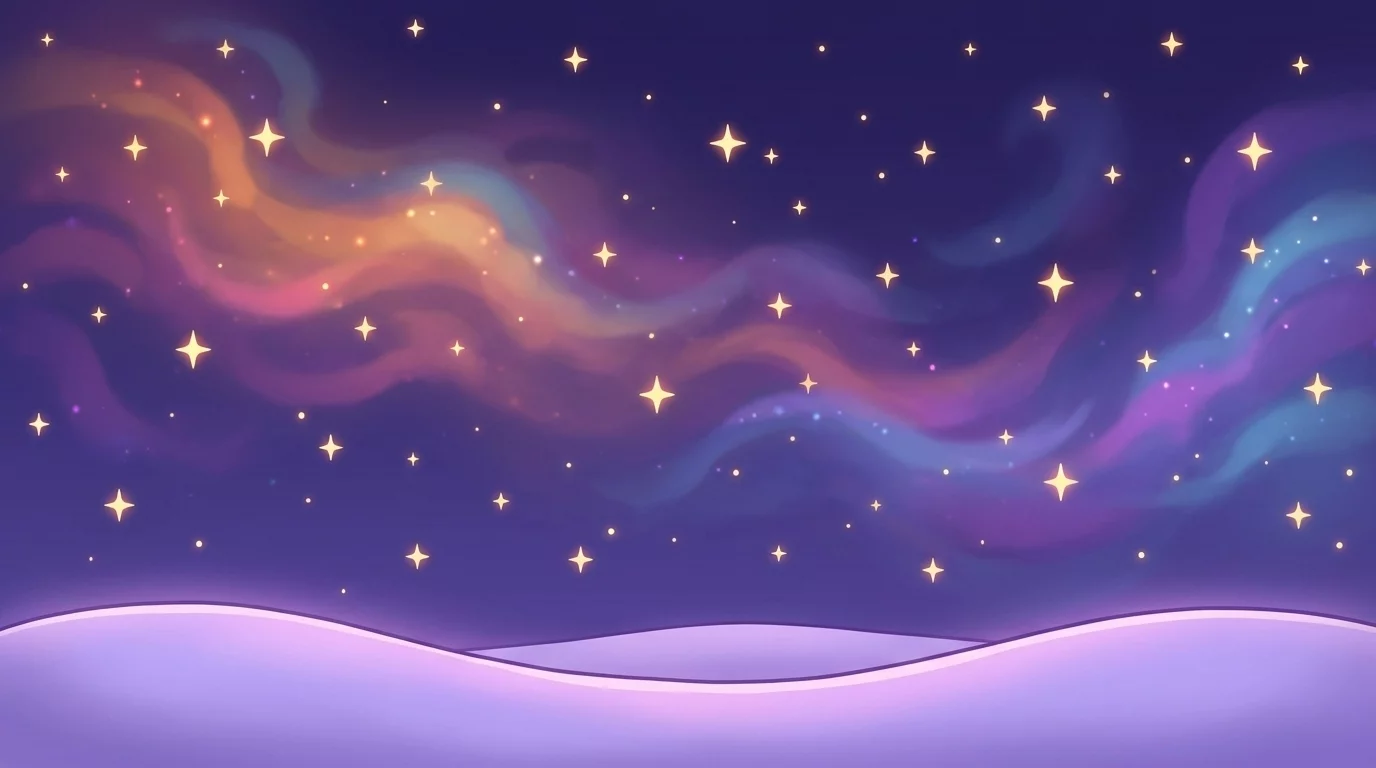
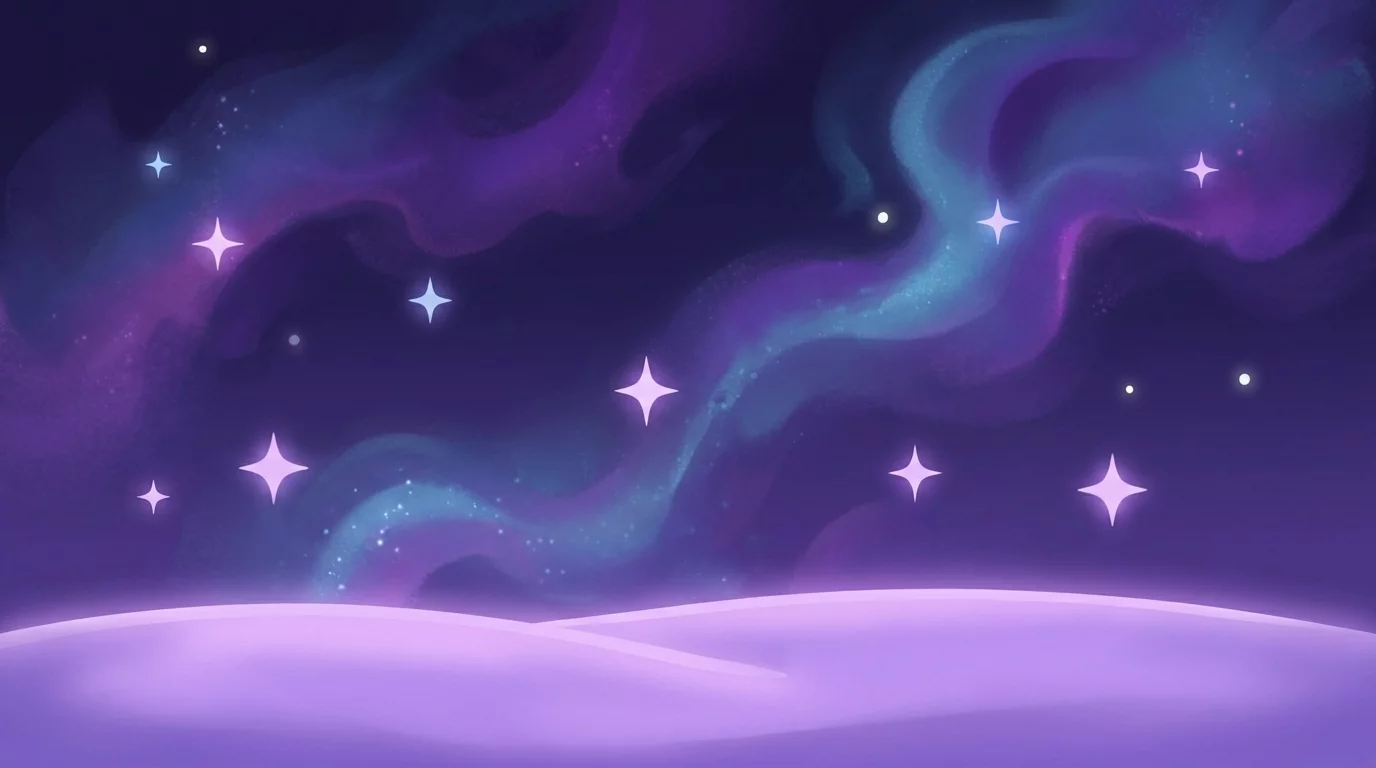
Book 2: art (generated; sources in asset-sources/duel2)

diff --git a/src/duel2/components/screens/Doors.tsx b/src/duel2/components/screens/Doors.tsx
@@ -10,16 +10,23 @@ import { Stage, type Phase } from './Stage'
 export const DOOR_GLYPH_PX = 110
 export const KEY_X = [520, 800, 1080]
 
+/** Where the round handle's disc sits in the key sprite (measured): centre and radius as fractions of the sprite width/height. */
+export const KEY_BOW = { cx: 0.5, cy: 0.345, r: 0.369 }
+const DISC_R = 80
+const KEY_W = DISC_R / KEY_BOW.r
+const KEY_H = KEY_W * (600 / 428)
+
 function KeyShape(p: { x: number; y: number; picture: string; state: 'idle' | 'reveal' | 'wrong' | 'off'; onPick: () => void; correct: boolean }) {
   const ring = p.state === 'reveal' ? '#ffd34d' : p.state === 'wrong' ? '#ff4d6a' : '#e7b860'
+  const pic = DISC_R * 1.5
   return (
     <g data-key className="d2-key" opacity={p.state === 'off' ? 0.4 : 1}>
       {IMAGES['s-key']
-        ? <image href={IMAGES['s-key']} x={p.x - 95} y={p.y - 100} width={190} height={250} />
-        : <g stroke={ring} strokeWidth={12} fill="none"><circle cx={p.x} cy={p.y} r={92} /><path d={`M${p.x} ${p.y + 92} v110 m0 -40 h34 m-34 30 h24`} /></g>}
-      <circle cx={p.x} cy={p.y} r={80} fill="#2a1660" stroke={ring} strokeWidth={p.state === 'idle' ? 0 : 8} />
-      {IMAGES[p.picture] && <image href={IMAGES[p.picture]} x={p.x - 66} y={p.y - 66} width={132} height={132} />}
-      <rect data-pick x={p.x - 105} y={p.y - 105} width={210} height={330} fill="transparent" {...(p.correct ? { 'data-correct': '1' } : {})}
+        ? <image href={IMAGES['s-key']} x={p.x - KEY_W * KEY_BOW.cx} y={p.y - KEY_H * KEY_BOW.cy} width={KEY_W} height={KEY_H} />
+        : <g stroke={ring} strokeWidth={12} fill="none"><circle cx={p.x} cy={p.y} r={DISC_R + 12} /><path d={`M${p.x} ${p.y + DISC_R + 12} v110 m0 -40 h34 m-34 30 h24`} /></g>}
+      <circle data-key-disc cx={p.x} cy={p.y} r={DISC_R} fill={IMAGES['s-key'] ? 'none' : '#2a1660'} stroke={ring} strokeWidth={p.state === 'idle' ? 0 : 10} />
+      {IMAGES[p.picture] && <image data-key-picture href={IMAGES[p.picture]} x={p.x - pic / 2} y={p.y - pic / 2} width={pic} height={pic} />}
+      <rect data-pick x={p.x - 110} y={p.y - 110} width={220} height={KEY_H * (1 - KEY_BOW.cy) + 110} fill="transparent" {...(p.correct ? { 'data-correct': '1' } : {})}
         onPointerDown={(e) => { e.preventDefault(); if (p.state === 'idle') p.onPick() }} />
     </g>
   )
@@ -36,9 +43,8 @@ export function Doors(p: { word: Word; lit: 0 | 1 | 2; keys: Word[]; onPick: (id
     <Stage bg="bg-ground">
       <g className={p.zooming ? 'd2-zoom' : undefined} style={{ transformOrigin: '800px 400px' }}>
         {IMAGES['s-door']
-          ? <image href={IMAGES['s-door']} x={800 - dw / 2} y={95} width={dw} height={dh} opacity={p.opening ? 0 : 1} style={{ transition: 'opacity 500ms' }} />
-          : <rect x={800 - dw / 2} y={95} width={dw} height={dh} rx={dw / 2} fill="#2a1660" stroke="#ffd34d" strokeWidth={8} />}
-        {p.opening && <rect x={800 - dw / 2 + 40} y={150} width={dw - 80} height={dh - 60} rx={120} fill="#fff6d8" opacity={0.85} className="d2-door-light" />}
+          ? <image href={IMAGES[p.opening && IMAGES['s-door-open'] ? 's-door-open' : 's-door']} x={800 - dw / 2} y={95} width={dw} height={dh} />
+          : <rect x={800 - dw / 2} y={95} width={dw} height={dh} rx={dw / 2} fill={p.opening ? '#fff6d8' : '#2a1660'} stroke="#ffd34d" strokeWidth={8} />}
         {!p.opening && (
           <Plate w={420} x={800} y={340} state="idle">
             {syls.map((t, i) => (
@@ -50,7 +56,7 @@ export function Doors(p: { word: Word; lit: 0 | 1 | 2; keys: Word[]; onPick: (id
         )}
       </g>
       {!p.opening && p.keys.map((k, i) => (
-        <KeyShape key={k.id} x={KEY_X[i]} y={740} picture={k.picture} correct={!!p.showCorrect && k.id === p.word.id}
+        <KeyShape key={k.id} x={KEY_X[i]} y={690} picture={k.picture} correct={!!p.showCorrect && k.id === p.word.id}
           state={p.reveal?.right === k.id ? 'reveal' : p.reveal?.wrong === k.id ? 'wrong' : can ? 'idle' : 'off'}
           onPick={() => p.onPick(k.id)} />
       ))}

diff --git a/src/duel2/components/screens/screens.test.tsx b/src/duel2/components/screens/screens.test.tsx
@@ -85,6 +85,15 @@ describe('screens', () => {
     expect(first.getAttribute('data-lit')).toBe('1')
     expect(second.getAttribute('data-lit')).toBe('0')
   })
+  it('the picture sits in the key handle', () => {
+    const w = WORDS.find((x) => x.id === 'tent')!
+    const { container } = render(<Doors word={w} lit={2} keys={[w]} onPick={() => {}} phase="answer" opening={false} zooming={false} />)
+    const key = container.querySelector('[data-key]')!
+    const pic = key.querySelector('[data-key-picture]')!
+    const disc = key.querySelector('[data-key-disc]')!
+    expect(Number(pic.getAttribute('x')) + Number(pic.getAttribute('width')) / 2).toBeCloseTo(Number(disc.getAttribute('cx')))
+    expect(Number(pic.getAttribute('y')) + Number(pic.getAttribute('height')) / 2).toBeCloseTo(Number(disc.getAttribute('cy')))
+  })
   it('door shows no speaker on the plate', () => {
     const w = WORDS.find((x) => x.id === 'tent')!
     const { container } = render(<Doors word={w} lit={2} keys={[w]} onPick={() => {}} phase="answer" opening={false} zooming={false} />)

diff --git a/src/duel2/screens/Play.tsx b/src/duel2/screens/Play.tsx
@@ -51,7 +51,7 @@ function demoPath(v: View): { from: { x: number; y: number }; to: { x: number; y
   if (s.screen === 'cauldron') { const i = s.orbs.indexOf(s.target.mark!); return { from: { x: ORB_X[i], y: ORB_Y }, to: { x: 800, y: 650 } } }
   if (s.screen === 'ladder') { const i = s.plates.findIndex((p) => p.id === s.target.id); return { from: { x: 1300, y: 860 }, to: { x: LADDER_PLATE_X, y: plateYs(s.built.length, s.rungs)[i] } } }
   if (s.screen === 'ghosts') { const i = s.signs.findIndex((p) => p.id === s.target.id); const g = GHOST_SLOTS[i]; return { from: { x: 300, y: 860 }, to: { x: g.x, y: g.top + GHOST_H * 0.74 } } }
-  if (s.screen === 'doors') { const i = s.keys.findIndex((k) => k.id === s.word.id); return { from: { x: 300, y: 860 }, to: { x: KEY_X[i], y: 740 } } }
+  if (s.screen === 'doors') { const i = s.keys.findIndex((k) => k.id === s.word.id); return { from: { x: 300, y: 860 }, to: { x: KEY_X[i], y: 690 } } }
   return null
 }
 
